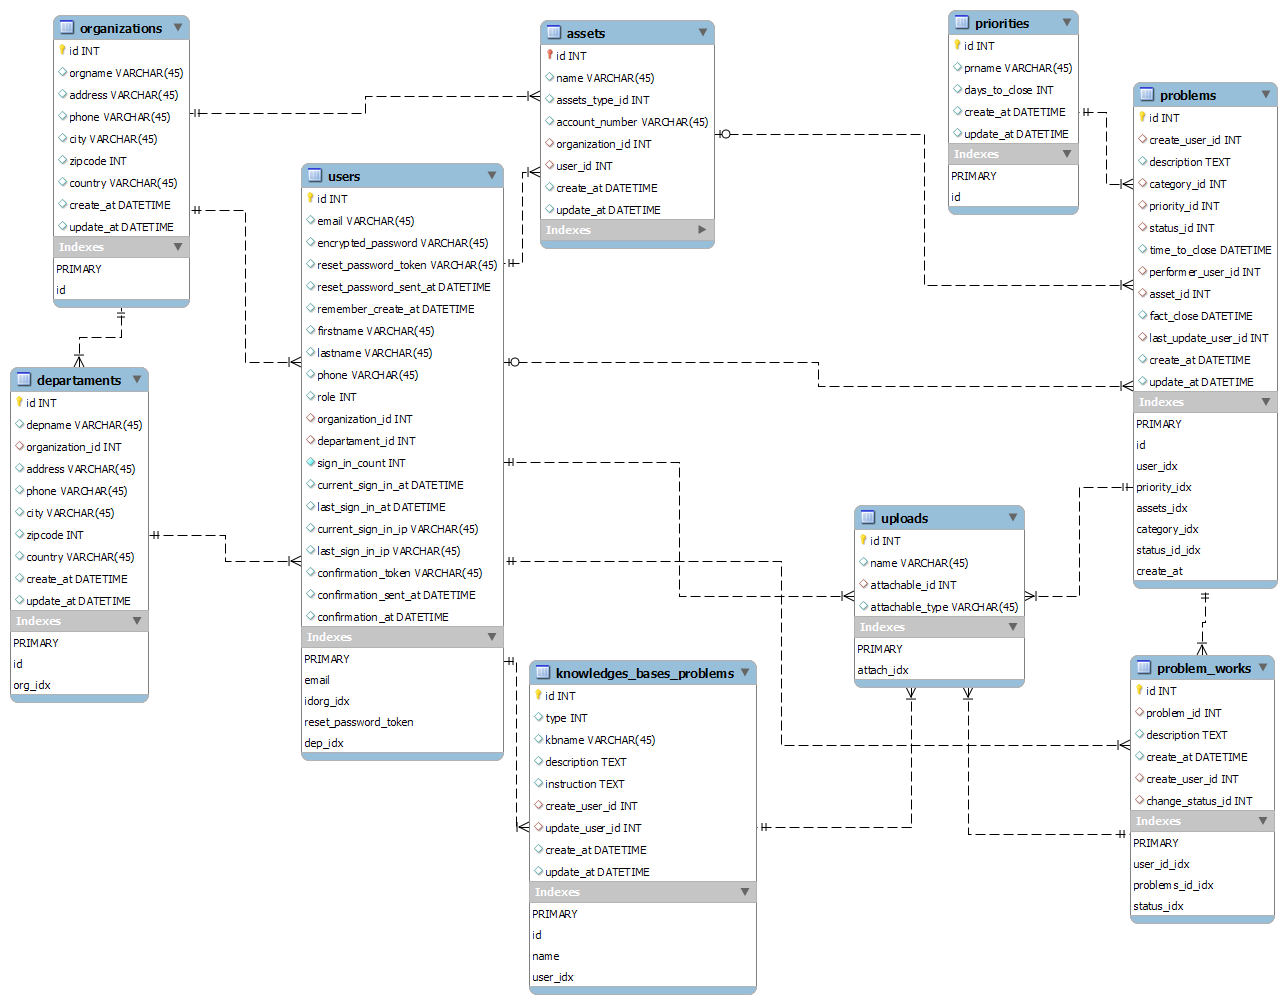
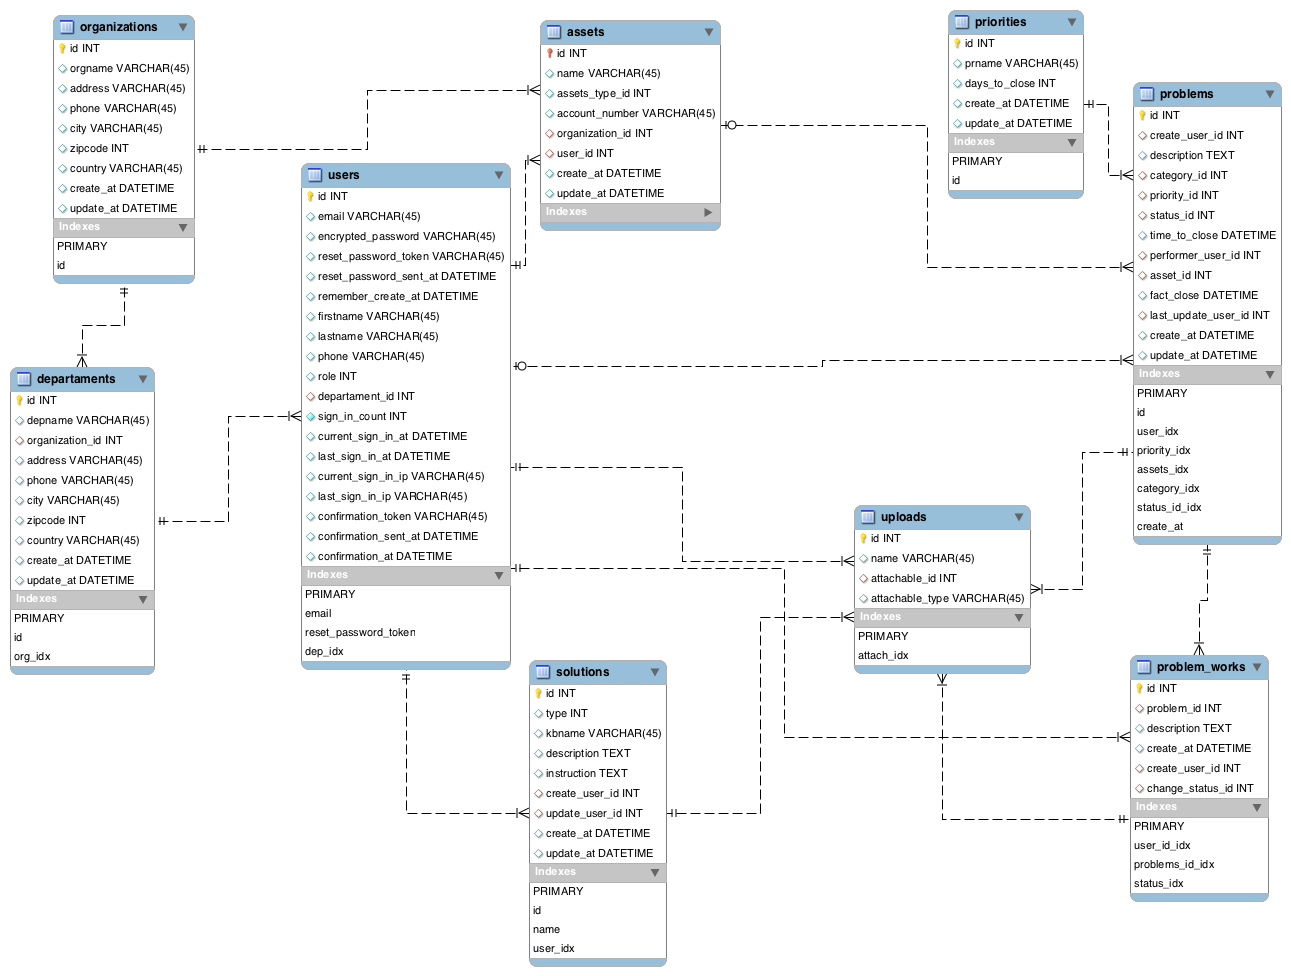
Change image DB schema

diff --git a/db/schema.rb b/db/schema.rb
@@ -20,7 +20,6 @@ ActiveRecord::Schema.define(version: 20140725104123) do
     t.integer  "problem_id"
     t.integer  "create_user_id"
     t.integer  "change_status_id"
-    t.string   "file"
     t.text     "description"
     t.datetime "create_at"
   end
@@ -37,7 +36,6 @@ ActiveRecord::Schema.define(version: 20140725104123) do
     t.integer  "status_id"
     t.integer  "category_id"
     t.integer  "asset_id"
-    t.string   "file"
     t.text     "description"
     t.datetime "time_to_close"
     t.datetime "fact_close"
@@ -74,8 +72,9 @@ ActiveRecord::Schema.define(version: 20140725104123) do
     t.string   "firstname",              default: "", null: false
     t.string   "lastname",               default: "", null: false
     t.string   "phone"
-    t.integer  "role_id"
+    t.integer  "role"
     t.integer  "organization_id"
+    t.integer  "departament_id"
     t.datetime "created_at"
     t.datetime "updated_at"
   end

diff --git a/app/models/user.rb b/app/models/user.rb
@@ -1,6 +1,6 @@
 class User < ActiveRecord::Base
-  #extend Enumerize
-  #enumerize :role, in: { user: 1, spec: 2, dispatcher: 3, admin: 4 }, default: :user
+  extend Enumerize
+  enumerize :role, in: { user: 1, spec: 2, dispatcher: 3, admin: 4 }, default: :user
 
   # Include default devise modules. Others available are:
   # :confirmable, :lockable, :timeoutable and :omniauthable

diff --git a/db/migrate/20140725045129_devise_create_users.rb b/db/migrate/20140725045129_devise_create_users.rb
@@ -33,7 +33,6 @@ class DeviseCreateUsers < ActiveRecord::Migration
       t.string    :lastname,  null: false, default: ""
       t.string    :phone
       t.integer   :role
-      t.belongs_to :organization
       t.belongs_to :departament
 
       t.timestamps
